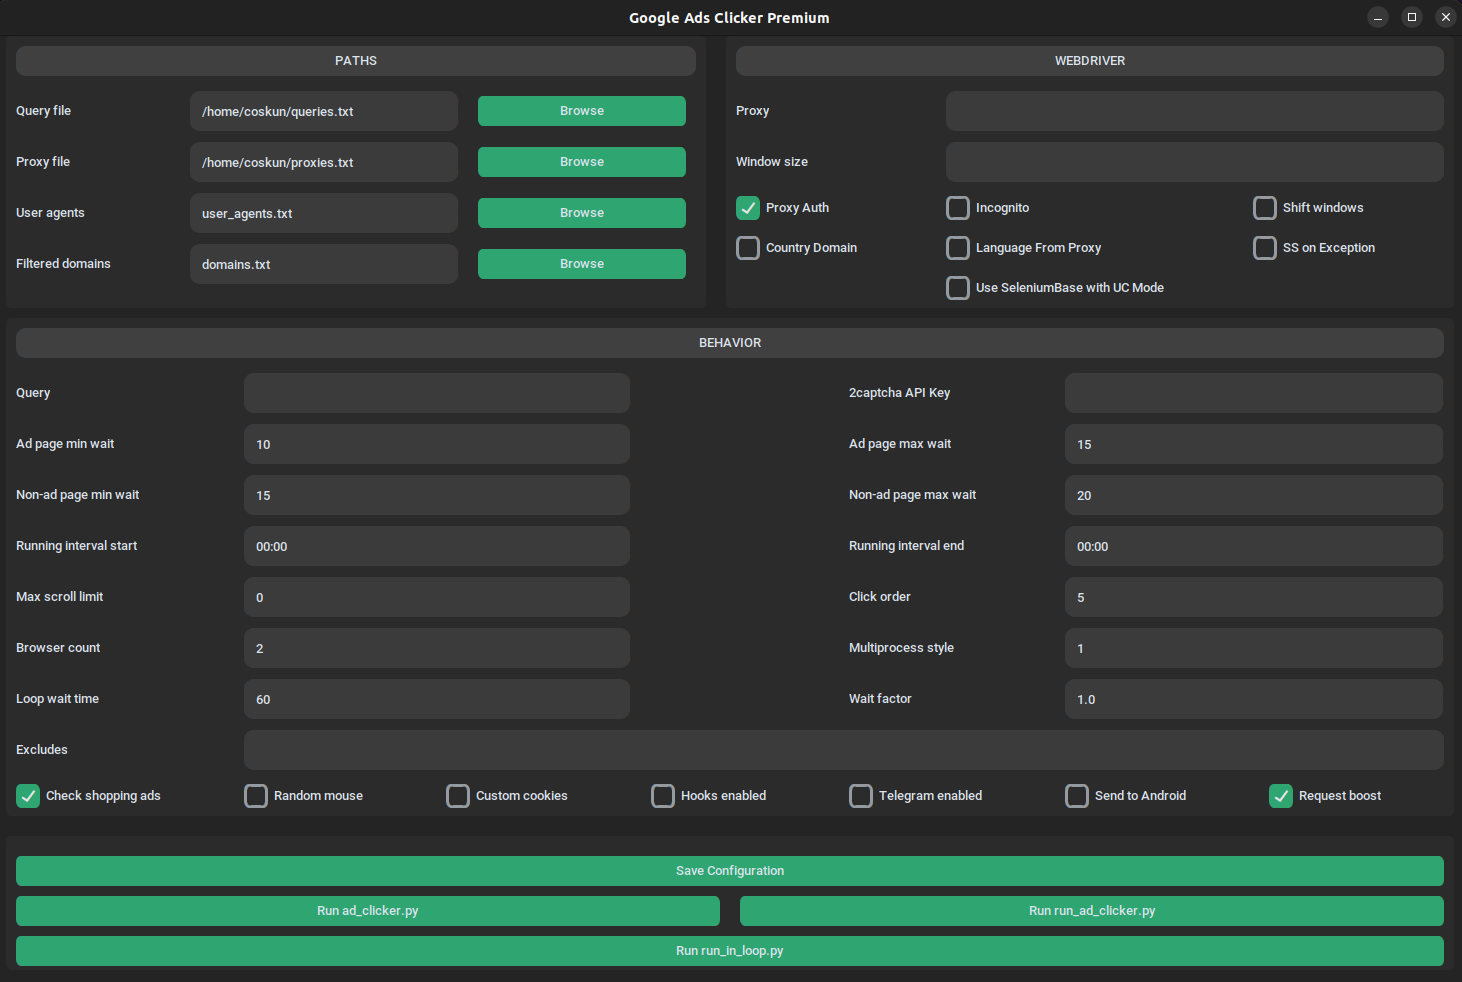
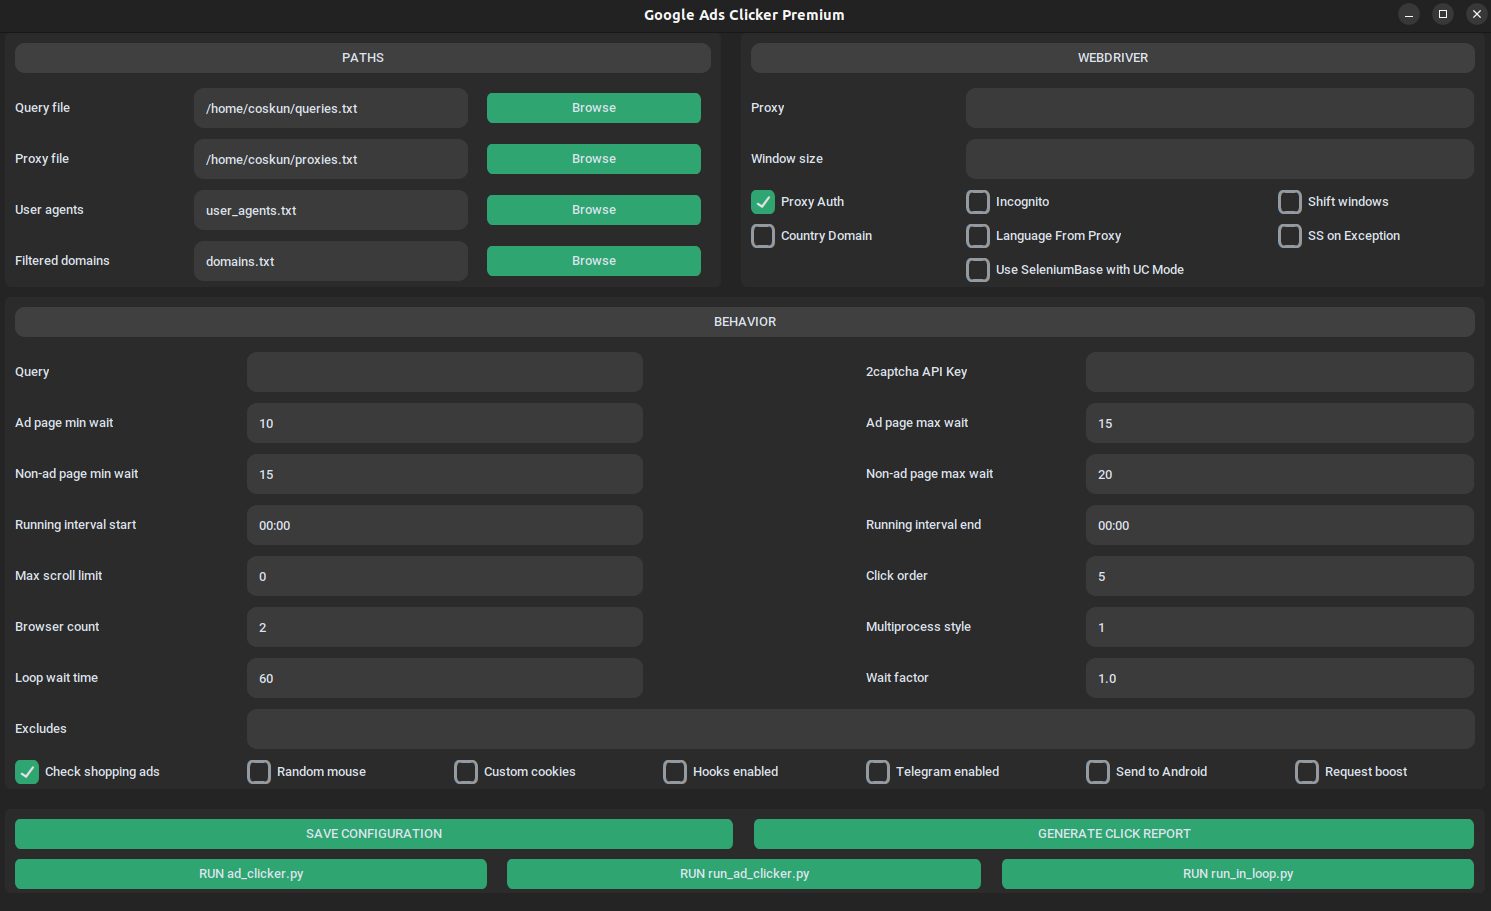
Update GUI

diff --git a/gui.py b/gui.py
@@ -1,4 +1,5 @@
 import json
+import subprocess
 import traceback
 from typing import Optional
 
@@ -25,7 +26,12 @@ class PathsFrame(customtkinter.CTkFrame):
         self.grid_columnconfigure((0, 1, 2), weight=1)
 
         self.relative_width = master.winfo_screenwidth() // 100
-        self.relative_height = master.winfo_screenheight() // 100
+
+        dpi = master.winfo_fpixels("1i")
+        scale_factor = dpi / 96.0
+
+        base_height = int(30 * scale_factor)  # 30px base height
+        self.button_height = max(30, min(40, base_height))
 
         self._title = customtkinter.CTkLabel(
             self, text="PATHS", height=30, fg_color="gray25", corner_radius=10
@@ -91,14 +97,14 @@ class PathsFrame(customtkinter.CTkFrame):
         path_label = customtkinter.CTkLabel(self, text=label)
         path_label.grid(row=row, column=0, padx=10, sticky="w")
 
-        path_textbox = customtkinter.CTkTextbox(self, height=self.relative_height, corner_radius=10)
+        path_textbox = customtkinter.CTkTextbox(self, height=self.button_height, corner_radius=10)
         path_textbox.grid(row=row, column=1, pady=5, sticky="ew")
         path_textbox.insert("1.0", default_value)
 
         open_file_button = customtkinter.CTkButton(
             self,
             text="Browse",
-            height=self.relative_height * 3,
+            height=self.button_height,
             command=lambda: self.open_file_dialog(path_textbox),
         )
         open_file_button.grid(row=row, column=2, padx=self.relative_width, pady=5, sticky="ew")
@@ -114,7 +120,6 @@ class WebdriverFrame(customtkinter.CTkFrame):
 
         self.grid_columnconfigure((0, 1, 2), weight=1)
 
-        self.relative_width = master.winfo_screenwidth() // 100
         self.relative_height = master.winfo_screenheight() // 100
 
         self._title = customtkinter.CTkLabel(
@@ -223,7 +228,7 @@ class WebdriverFrame(customtkinter.CTkFrame):
         checkbox = customtkinter.CTkCheckBox(
             self,
             text=label,
-            height=self.relative_height * 3,
+            height=self.relative_height * 2,
             variable=checkbox_value,
         )
         checkbox.grid(row=row, column=column, padx=10, pady=5, sticky="w")
@@ -242,7 +247,6 @@ class BehaviorFrame(customtkinter.CTkFrame):
 
         self.grid_columnconfigure((0, 1, 2, 3, 4, 5, 6), weight=1)
 
-        self.relative_width = master.winfo_screenwidth() // 100
         self.relative_height = master.winfo_screenheight() // 100
 
         self._title = customtkinter.CTkLabel(
@@ -440,7 +444,7 @@ class BehaviorFrame(customtkinter.CTkFrame):
         checkbox = customtkinter.CTkCheckBox(
             self,
             text=label,
-            height=self.relative_height * 3,
+            height=self.relative_height * 2,
             variable=checkbox_value,
         )
         checkbox.grid(row=row, column=column, padx=10, pady=5, sticky="w")
@@ -459,40 +463,51 @@ class ActionButtonsFrame(customtkinter.CTkFrame):
 
         self.grid_columnconfigure((0, 1, 2, 3, 4, 5), weight=1)
 
-        self.relative_width = master.winfo_screenwidth() // 100
-        self.relative_height = master.winfo_screenheight() // 100
+        dpi = master.winfo_fpixels("1i")
+        scale_factor = dpi / 96.0
+
+        base_height = int(30 * scale_factor)  # 30px base height
+        self.button_height = max(30, min(40, base_height))
 
         self.save_button = customtkinter.CTkButton(
             self,
-            text="Save Configuration",
-            height=self.relative_height * 3,
+            text="SAVE CONFIGURATION",
+            height=self.button_height,
             command=master.save_button_callback,
         )
-        self.save_button.grid(row=3, column=0, columnspan=6, padx=10, pady=(20, 5), sticky="ew")
+        self.save_button.grid(row=3, column=0, columnspan=3, padx=10, pady=(10, 5), sticky="ew")
+
+        self.report_button = customtkinter.CTkButton(
+            self,
+            text="GENERATE CLICK REPORT",
+            height=self.button_height,
+            command=master.report_generation_command,
+        )
+        self.report_button.grid(row=3, column=3, columnspan=3, padx=10, pady=(10, 5), sticky="ew")
 
         self.run_button_1 = customtkinter.CTkButton(
             self,
-            text="Run ad_clicker.py",
-            height=self.relative_height * 3,
+            text="RUN ad_clicker.py",
+            height=self.button_height,
             command=master.ad_clicker_script,
         )
-        self.run_button_1.grid(row=4, column=0, columnspan=3, padx=10, pady=5, sticky="ew")
+        self.run_button_1.grid(row=4, column=0, columnspan=2, padx=10, pady=5, sticky="ew")
 
         self.run_button_2 = customtkinter.CTkButton(
             self,
-            text="Run run_ad_clicker.py",
-            height=self.relative_height * 3,
+            text="RUN run_ad_clicker.py",
+            height=self.button_height,
             command=master.run_ad_clicker_script,
         )
-        self.run_button_2.grid(row=4, column=3, columnspan=3, padx=10, pady=5, sticky="ew")
+        self.run_button_2.grid(row=4, column=2, columnspan=2, padx=10, pady=5, sticky="ew")
 
         self.run_button_3 = customtkinter.CTkButton(
             self,
-            text="Run run_in_loop.py",
-            height=self.relative_height * 3,
+            text="RUN run_in_loop.py",
+            height=self.button_height,
             command=master.run_in_loop_script,
         )
-        self.run_button_3.grid(row=5, column=0, columnspan=6, padx=10, pady=5, sticky="ew")
+        self.run_button_3.grid(row=4, column=4, columnspan=2, padx=10, pady=5, sticky="ew")
 
 
 class ConfigGUI(customtkinter.CTk):
@@ -502,7 +517,7 @@ class ConfigGUI(customtkinter.CTk):
         super().__init__()
 
         self.title("Google Ads Clicker Premium")
-        self.geometry("1500x920")
+        self.geometry("1500x900")
 
         self.grid_columnconfigure(0, weight=1)
         self.grid_columnconfigure(1, weight=1)
@@ -538,6 +553,14 @@ class ConfigGUI(customtkinter.CTk):
         logger.info("Configuration was saved successfully.")
 
         config.read_parameters()
+
+    def report_generation_command(self):
+        """Run the ad_clicker.py script to generate Excel report"""
+
+        command = ["python", "ad_clicker.py"]
+        command.extend(["--report_clicks", "--excel"])
+
+        subprocess.run(command)
 
     def ad_clicker_script(self):
         """Run the ad_clicker.py script"""

diff --git a/README.md b/README.md
@@ -67,6 +67,8 @@ See [here](https://github.com/coskundeniz/ad_clicker/wiki/Setup-for-Windows) for
 
 ## How to run
 
+* Please read all the config option explanations and FAQ section before starting.
+
 * You need to see `(env)` at the beginning of your command prompt that is showing virtual environment is activated.
 
 * Before running the below commands for the first time, run `python ad_clicker.py -q test` once and end it by pressing CTRL+C after seeing the browser opened.
